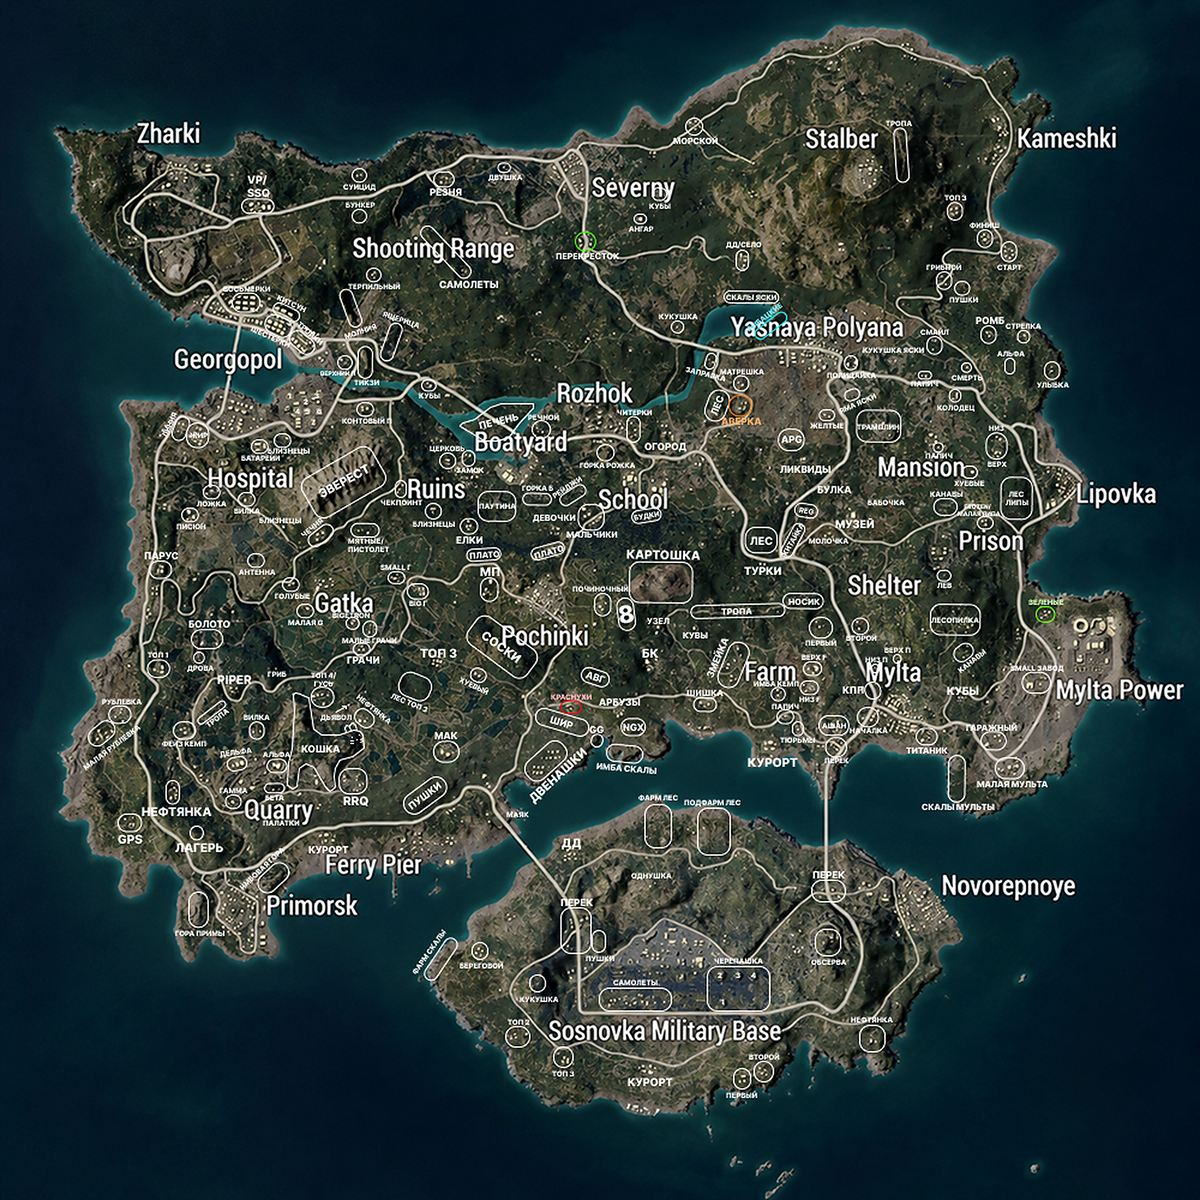
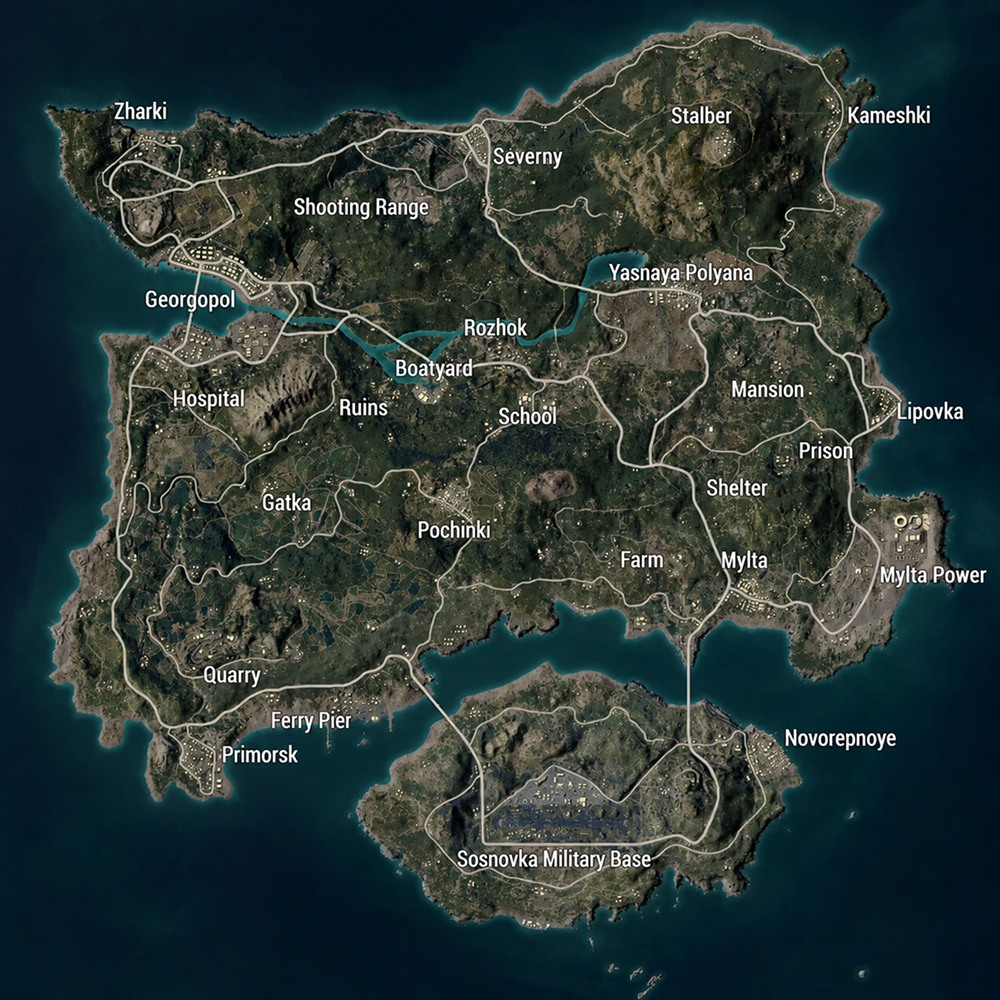
Zone map: swap to clean high-quality Erangel map, reduce dimming for crispness

diff --git a/tools.html b/tools.html
@@ -783,9 +783,9 @@
     var w=cv.width,h=cv.height;
     ctx.clearRect(0,0,w,h);
     if(ready){ ctx.drawImage(img,0,0,w,h); } else { ctx.fillStyle='#0e1519'; ctx.fillRect(0,0,w,h); }
-    ctx.fillStyle='rgba(9,10,14,0.40)'; ctx.fillRect(0,0,w,h);           /* dim so annotations recede */
-    var vg=ctx.createRadialGradient(w/2,h/2,w*0.28,w/2,h/2,w*0.62);
-    vg.addColorStop(0,'rgba(0,0,0,0)'); vg.addColorStop(1,'rgba(5,6,10,0.72)');
+    ctx.fillStyle='rgba(9,10,14,0.14)'; ctx.fillRect(0,0,w,h);           /* light dim — keep map crisp */
+    var vg=ctx.createRadialGradient(w/2,h/2,w*0.34,w/2,h/2,w*0.66);
+    vg.addColorStop(0,'rgba(0,0,0,0)'); vg.addColorStop(1,'rgba(5,6,10,0.45)');
     ctx.fillStyle=vg; ctx.fillRect(0,0,w,h);
   }
   function frame(chain,p,prog){

diff --git a/sw.js b/sw.js
@@ -1,5 +1,5 @@
 /* Skill Forge service worker — offline shell + installability */
-const CACHE = 'sf-cache-v3';
+const CACHE = 'sf-cache-v4';
 const SHELL = [
   './',
   './index.html',
